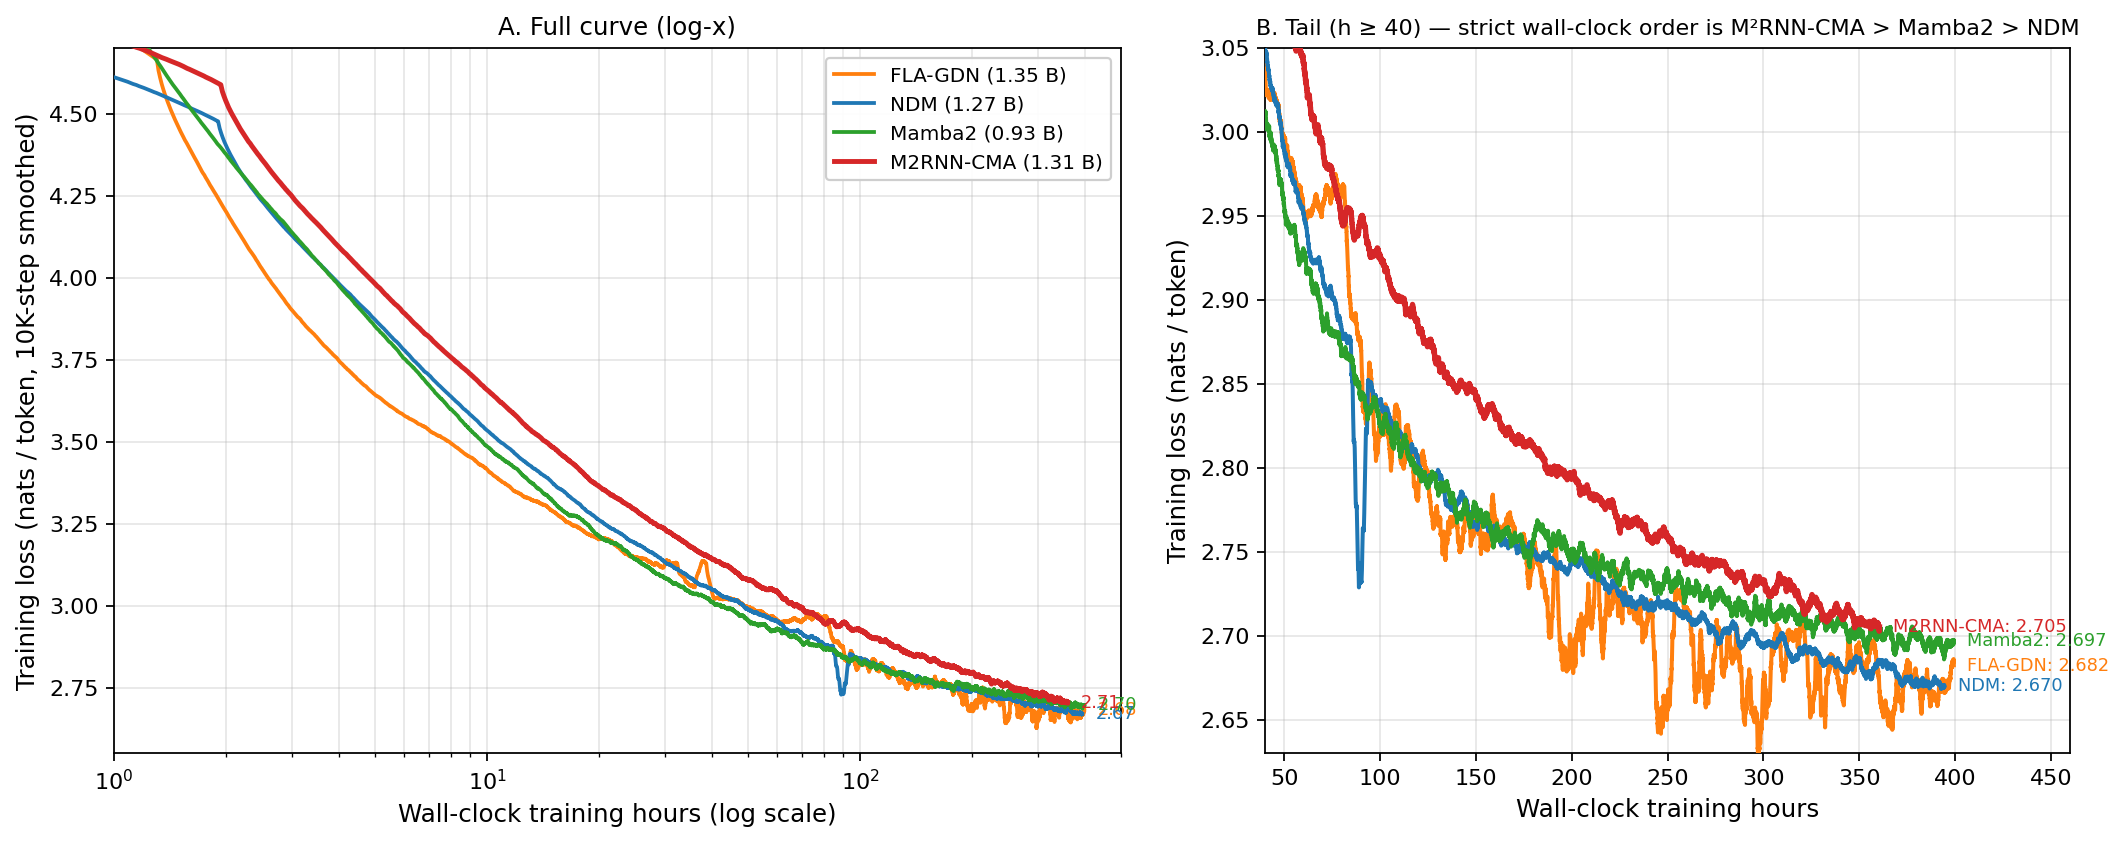
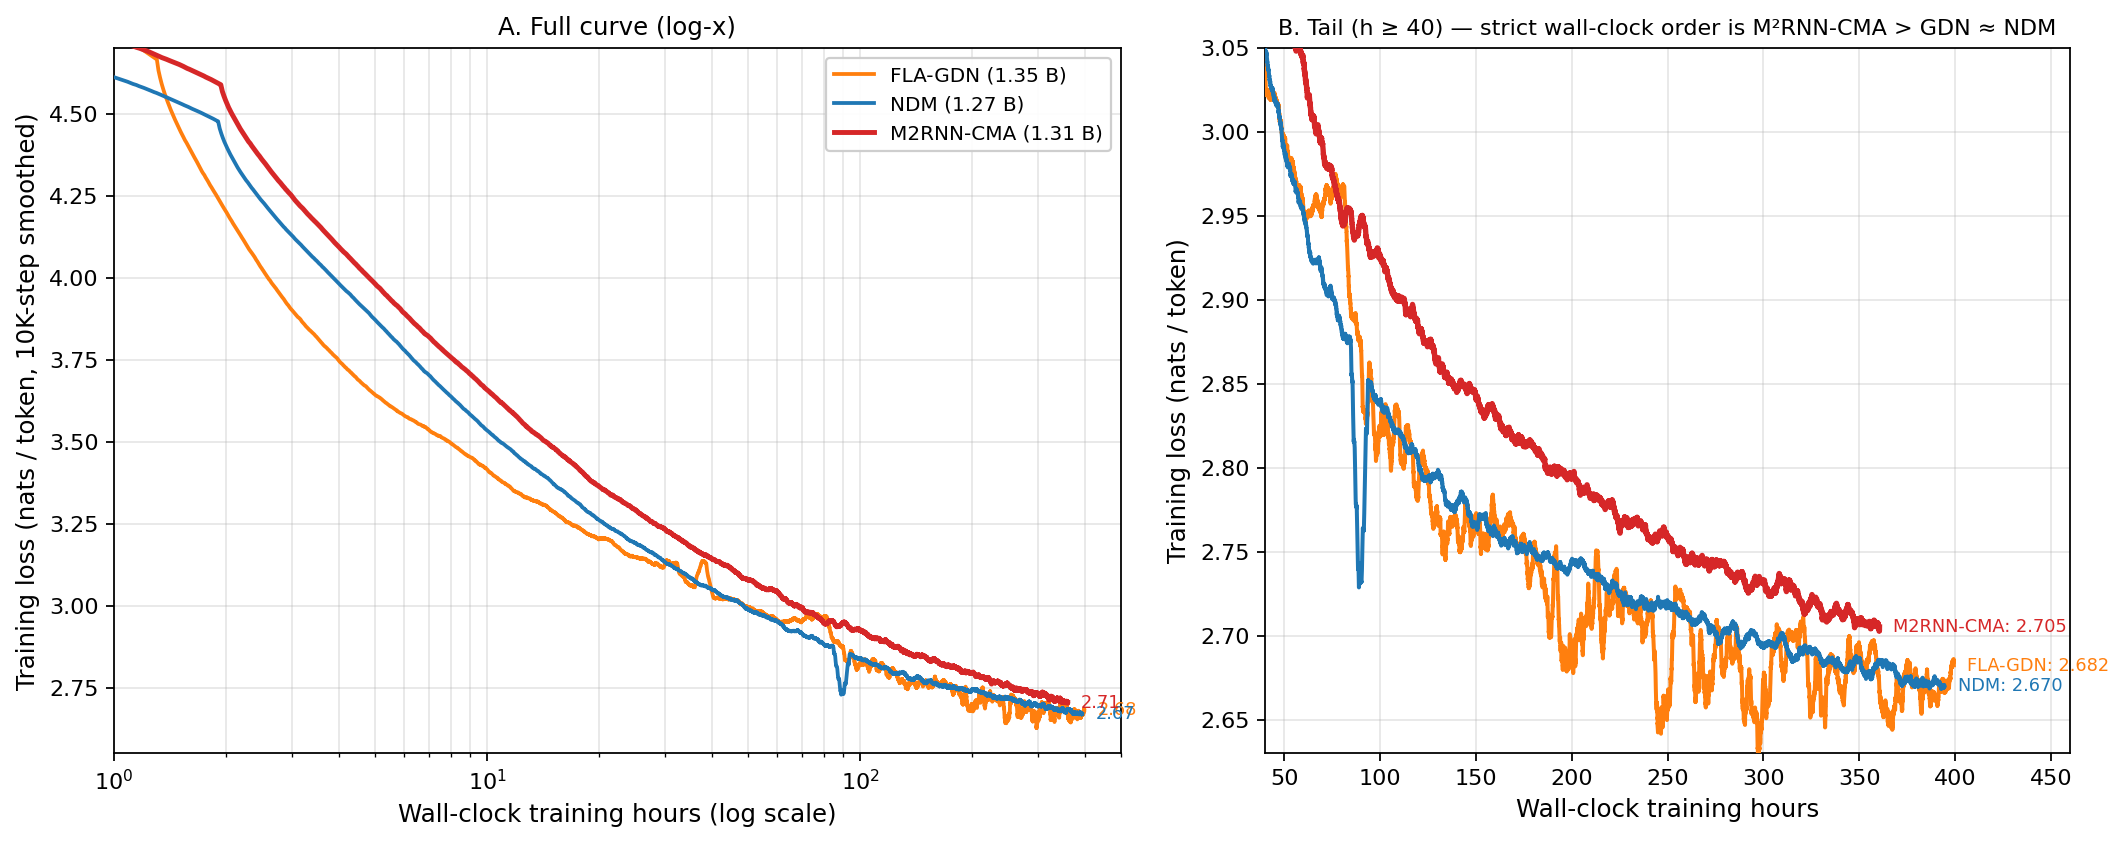
feat: paper-v14-silent (agent-193)
Squash-merged from worktree branch wg/agent-193/paper-v14-silent

diff --git a/paper/results/figure_2/plot_normalized.py b/paper/results/figure_2/plot_normalized.py
@@ -1,7 +1,7 @@
 #!/usr/bin/env python3
 """Render the normalized Figure 2 from the existing CSVs.
 
-Reads E88_NDM.csv, FLA_GDN.csv, Mamba2.csv, M2RNN_CMA.csv (produced by smooth.py
+Reads E88_NDM.csv, FLA_GDN.csv, M2RNN_CMA.csv (produced by smooth.py
 when run on the host with /tmp/pile_convergence_* logs present), and writes
 figure_2_draft.png.
 
@@ -10,7 +10,6 @@ Normalized presentation conventions (shared with cma_flop_rate/plot.py):
   y-axis : training loss in nats per token (10K-step centred moving average)
   colors : NDM = #1f77b4 (blue)
            FLA-GDN = #ff7f0e (orange)
-           Mamba2 = #2ca02c (green)
            M2RNN-CMA = #d62728 (red) — emphasises strict-above (worse) position
 """
 from __future__ import annotations
@@ -28,25 +27,22 @@ OUT = Path(__file__).parent
 COLORS = {
     "NDM":       "#1f77b4",
     "FLA-GDN":   "#ff7f0e",
-    "Mamba2":    "#2ca02c",
     "M2RNN-CMA": "#d62728",
 }
 
 # Plot in an order that draws M2RNN-CMA on top so its strict-above position
 # is unambiguous when curves get close near the data-entropy floor.
-ORDER = ["FLA-GDN", "NDM", "Mamba2", "M2RNN-CMA"]
+ORDER = ["FLA-GDN", "NDM", "M2RNN-CMA"]
 
 FILES = {
     "NDM":       OUT / "E88_NDM.csv",
     "FLA-GDN":   OUT / "FLA_GDN.csv",
-    "Mamba2":    OUT / "Mamba2.csv",
     "M2RNN-CMA": OUT / "M2RNN_CMA.csv",
 }
 
 PARAMS = {
     "NDM":       "1.27 B",
     "FLA-GDN":   "1.35 B",
-    "Mamba2":    "0.93 B",
     "M2RNN-CMA": "1.31 B",
 }
 
@@ -125,7 +121,7 @@ def main():
     axB.set_ylim(2.63, 3.05)
     axB.set_xlabel("Wall-clock training hours", fontsize=11)
     axB.set_ylabel("Training loss (nats / token)", fontsize=11)
-    axB.set_title("B. Tail (h ≥ 40) — strict wall-clock order is M²RNN-CMA > Mamba2 > NDM", fontsize=10)
+    axB.set_title("B. Tail (h ≥ 40) — strict wall-clock order is M²RNN-CMA > GDN ≈ NDM", fontsize=10)
     axB.grid(True, which="both", alpha=0.3)
 
     out = OUT / "figure_2_draft.png"